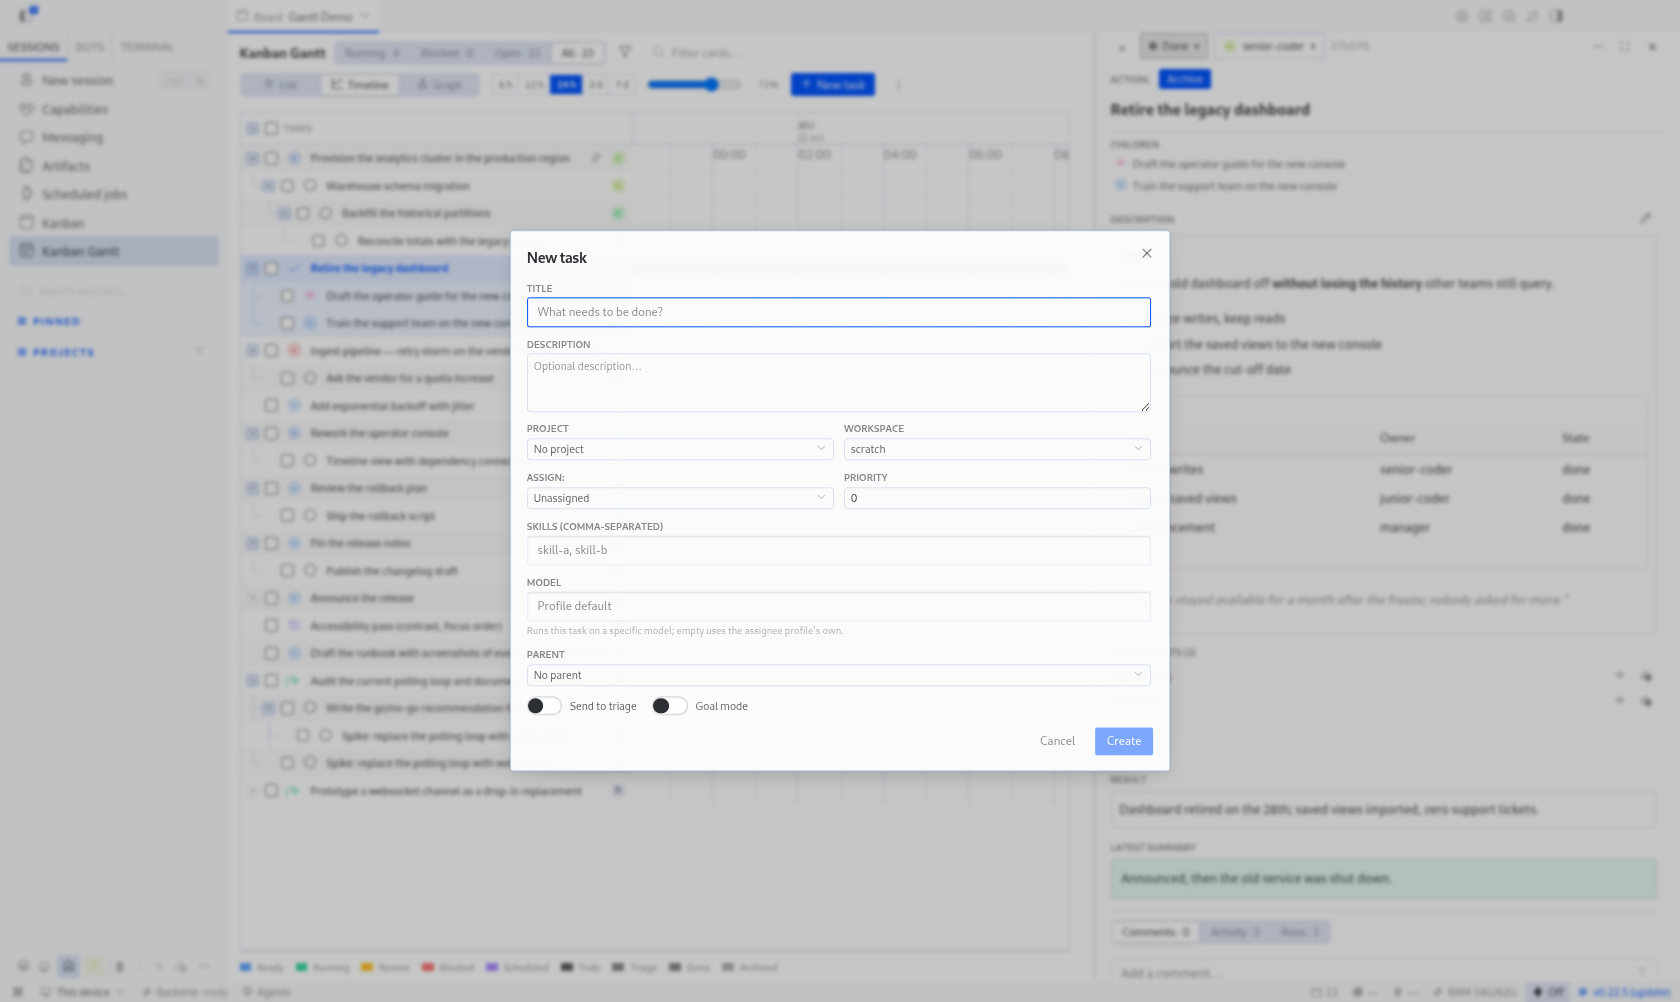
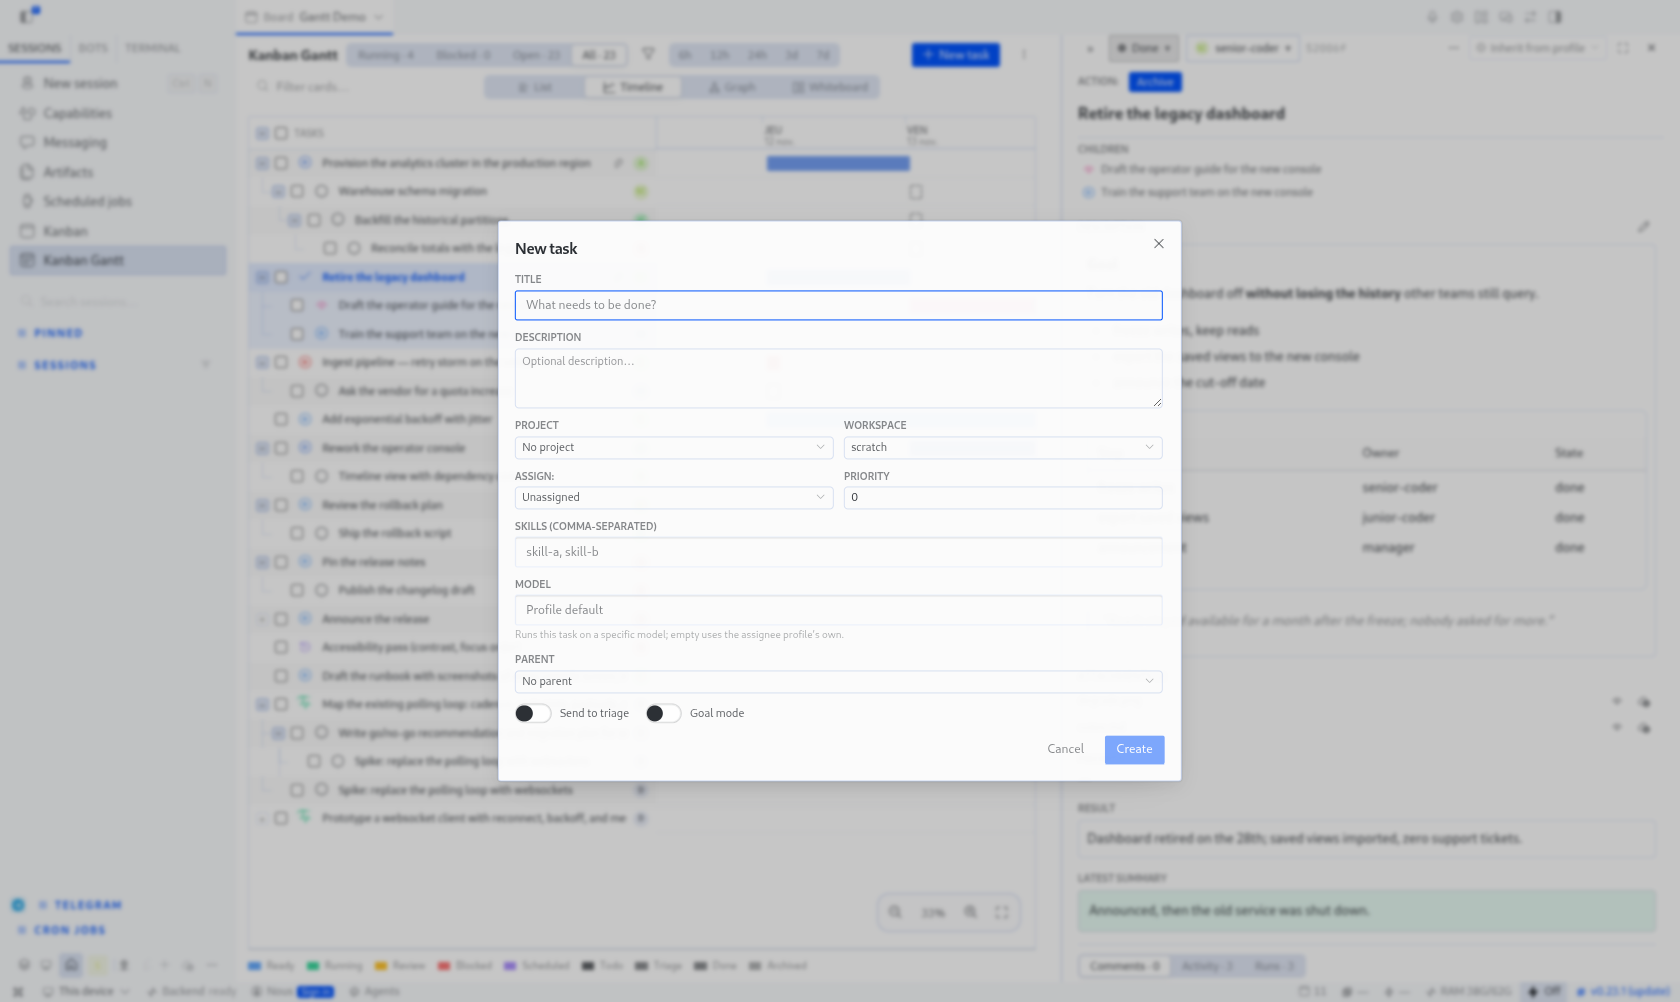
chore(release): 1.13.2 — the catalogue's frames are light, and the whiteboard gets one

diff --git a/scripts/shots.py b/scripts/shots.py
@@ -60,7 +60,7 @@ DEMO_BOARD = "gantt-demo"
 DEMO_TASK = "Provision the analytics cluster"
 # Desktop plugins that must NOT appear in a capture: the sidebar's plugin list is the shell's,
 # not the plugin's, so a catalogue image of kanban-gantt should not advertise its neighbours.
-OTHER_PLUGINS = ("model-leaderboard", "kanban-graph")
+OTHER_PLUGINS = ("model-leaderboard", "kanban-graph", "operations", "whiteboard")
 DECISIONS_KEY = "hermes.desktop.pluginDecisions.v2"
 
 # A detail-rich task to open. (The drag pair that used to live here went with the
@@ -391,16 +391,108 @@ async def ensure_current_board(ui: Desktop):
     # behind: the column width, the view mode, and the SHELL's own light/dark mode
     # (this machine follows the system, and a switch to dark turned every capture
     # dark). Both shell values are put back at the end of the run.
-    RESTORE["mode"] = await ui.ev("(() => localStorage.getItem('hermes-desktop-mode-v1'))")
     RESTORE["sidebar"] = await resize_sidebar(ui)
     await ui.ev("""(() => {
       localStorage.setItem('hermes.plugin.kanban-gantt.labelW', '400');
       localStorage.setItem('hermes.plugin.kanban-gantt.viewMode', '"timeline"');
-      localStorage.setItem('hermes-desktop-mode-v1', 'light');
       return true;
     })()""")
     await ui.call("Page.reload", {"ignoreCache": False})
     await asyncio.sleep(9)
+    await ensure_light(ui)
+
+
+MODE_KEY = "hermes-desktop-mode-v1"
+PROFILE_MODES_KEY = "hermes-desktop-profile-modes-v1"
+# What the shell actually boots from. `localStorage` is a mirror the main process re-seeds, which is
+# how a run once wrote "light" into the renderer and still captured a dark app: the per-PROFILE map
+# said "system", the OS was dark, and the mirror lost the argument at the next reload.
+UI_PREFS = Path.home() / ".hermes" / "ui-preferences.json"
+
+
+async def appearance_is_light(ui: Desktop) -> bool:
+    """Is the shell PAINTING light? The class and the pixels are the truth; the stored key is not."""
+    return bool(await ui.ev("""(() => {
+      const cls = document.documentElement.className || '';
+      if (/(^|\\s)dark(\\s|$)/.test(cls)) return false;
+      const m = (getComputedStyle(document.body).backgroundColor || '').match(/rgba?\\((\\d+),\\s*(\\d+),\\s*(\\d+)/);
+      if (!m) return true;
+      return (Number(m[1]) + Number(m[2]) + Number(m[3])) / 3 > 140;
+    })()"""))
+
+
+def force_light_in_prefs() -> bool:
+    """Last resort: write the store the shell boots from, then let the reload apply it."""
+    try:
+        prefs = json.loads(UI_PREFS.read_text())
+    except Exception as exc:
+        print(f"  ! ui-preferences.json unreadable: {exc}")
+        return False
+    RESTORE.setdefault("prefs", UI_PREFS.read_text())
+    values = prefs.setdefault("values", {})
+    values[MODE_KEY] = "light"
+    try:
+        modes = json.loads(values.get(PROFILE_MODES_KEY) or "{}")
+    except Exception:
+        modes = {}
+    values[PROFILE_MODES_KEY] = json.dumps({name: "light" for name in (modes or {"default": "light"})})
+    prefs["revision"] = int(prefs.get("revision") or 0) + 1
+    UI_PREFS.write_text(json.dumps(prefs, indent=2))
+    return True
+
+
+async def ensure_light(ui: Desktop):
+    """A catalogue capture must be LIGHT — a dark thumbnail reads as a different product.
+
+    Three rungs, each verified on the PAINTED page rather than on the key that was written, because
+    the key can say "light" while the shell follows the OS: the renderer's own keys, then the boot
+    store, then an honest stop. What it found is remembered in RESTORE and put back at the end.
+    """
+    RESTORE["mode"] = await ui.ev(f"localStorage.getItem({MODE_KEY!r})")
+    RESTORE["profileModes"] = await ui.ev(f"localStorage.getItem({PROFILE_MODES_KEY!r})")
+    if await appearance_is_light(ui):
+        print("  appearance: light ✓")
+        return
+    await ui.ev(f"""(() => {{
+      localStorage.setItem({MODE_KEY!r}, 'light');
+      let modes = {{}};
+      try {{ modes = JSON.parse(localStorage.getItem({PROFILE_MODES_KEY!r}) || '{{}}'); }} catch (e) {{}}
+      if (!Object.keys(modes).length) modes = {{ default: 'light' }};
+      Object.keys(modes).forEach(name => modes[name] = 'light');
+      localStorage.setItem({PROFILE_MODES_KEY!r}, JSON.stringify(modes));
+      return true;
+    }})()""")
+    await ui.call("Page.reload", {"ignoreCache": False})
+    await asyncio.sleep(9)
+    if await appearance_is_light(ui):
+        print("  appearance: light (renderer keys) ✓")
+        return
+    if force_light_in_prefs():
+        await ui.call("Page.reload", {"ignoreCache": False})
+        await asyncio.sleep(9)
+    if not await appearance_is_light(ui):
+        raise Dead("the shell stayed dark — switch the desktop to Light and re-run; the catalogue "
+                   "cannot ship dark frames")
+    print("  appearance: light (ui-preferences.json) ✓")
+
+
+async def restore_appearance(ui: Desktop):
+    """Put the shell back the way the run found it — a capture has no business changing it."""
+    if RESTORE.get("prefs"):
+        try:
+            UI_PREFS.write_text(RESTORE.pop("prefs"))
+        except Exception as exc:
+            print(f"  ! could not restore ui-preferences.json: {exc}")
+    mode, modes = RESTORE.pop("mode", None), RESTORE.pop("profileModes", None)
+    if mode is None and modes is None:
+        return
+    await ui.ev(f"""(() => {{
+      const mode = {json.dumps(mode)}, modes = {json.dumps(modes)};
+      if (mode === null) localStorage.removeItem({MODE_KEY!r}); else localStorage.setItem({MODE_KEY!r}, mode);
+      if (modes === null) localStorage.removeItem({PROFILE_MODES_KEY!r}); else localStorage.setItem({PROFILE_MODES_KEY!r}, modes);
+      return true;
+    }})()""")
+    print("  appearance restored")
 
 
 async def collapse_private_sections(ui: Desktop):
@@ -639,6 +731,22 @@ async def click_exact(ui: Desktop, text: str, *, selector: str = "button") -> bo
     return True
 
 
+async def click_view_chip(ui: Desktop, label: str) -> bool:
+    """Click a view chip inside the plugin's own header — never a same-named sidebar entry.
+
+    "Whiteboard" is both a view of this plugin and the name of the official whiteboard app in the
+    sidebar; a text search matched the app and the capture showed the wrong product.
+    """
+    return bool(await ui.ev(f"""(() => {{
+      for (const group of document.querySelectorAll('[role=group]')) {{
+        const chip = [...group.querySelectorAll('button')]
+          .find(b => (b.innerText || '').trim() === {json.dumps(label)});
+        if (chip) {{ chip.click(); return true; }}
+      }}
+      return false;
+    }})()"""))
+
+
 async def click_attr(ui: Desktop, label: str) -> bool:
     """Click the first on-screen element whose aria-label is exactly `label`, by coordinates."""
     box = await ui.ev(f"""(() => {{
@@ -796,6 +904,24 @@ async def run_scenario(ui: Desktop, *, make_gif: bool):
 
     # ── the graph view: the dependency structure of the same board ───────────
     await capture_graph(ui)
+
+    # ── the whiteboard: the fourth view, and the one a thumbnail loses ────────
+    # Fit alone puts the whole plan on screen at a scale where, in a catalogue card, it reads as a
+    # pale map: the capture fits first (so nothing is cut), then steps the zoom in twice around the
+    # centre. The reader then sees lanes, frames and a milestone arrow instead of grey confetti.
+    # The chip is clicked by its GROUP, not by its text: "Whiteboard" is also the name of a sidebar
+    # entry (the official whiteboard app), and a text search opens that app instead — measured.
+    if await click_view_chip(ui, "Whiteboard"):
+        await asyncio.sleep(2.2)
+        if await click_attr(ui, "Fit"):
+            await asyncio.sleep(1.2)
+        for _ in range(2):
+            if await click_attr(ui, "Zoom in"):
+                await asyncio.sleep(0.7)
+        await asyncio.sleep(0.8)
+        await ui.shot("screenshot-en-09-whiteboard")
+    else:
+        print("  ! whiteboard toggle not found — skipping the whiteboard shot")
 
     # The animation, LAST: Page.captureScreenshot returns no frame while a
     # screencast runs, so every still above has to be taken first.
@@ -1031,11 +1157,8 @@ async def main():
             await restore_plugin_decisions(ui)
             if RESTORE.get("sidebar"):
                 await resize_sidebar(ui, int(RESTORE["sidebar"]))
-            if RESTORE.get("mode") is not None:
-                await ui.ev(f"""(() => {{
-                  localStorage.setItem('hermes-desktop-mode-v1', {json.dumps(str(RESTORE['mode']))});
-                  return true;
-                }})()""")
+            if RESTORE.get("mode") is not None or RESTORE.get("prefs"):
+                await restore_appearance(ui)
                 await ui.call("Page.reload", {"ignoreCache": False})
                 await asyncio.sleep(7)
                 RESTORE.pop("needsReload", None)

diff --git a/CHANGELOG.md b/CHANGELOG.md
@@ -1,5 +1,23 @@
 # Changelog
 
+## 1.13.2 — the catalogue's frames are light again
+
+The screenshots shipped with the catalog entry were captured in a dark shell. `scripts/shots.py` wrote
+`hermes-desktop-mode-v1` into `localStorage` and trusted it, but the shell boots from the per-profile
+map in `~/.hermes/ui-preferences.json`, where the active profile said `"system"` — so the run recorded
+the OS's dark theme and every frame came out dark while the key said "light". The capture now verifies
+what the page PAINTS (class and body colour), falls back to the boot store, and stops instead of
+shipping a dark frame; it puts back what it found when it is done.
+
+Also for the catalog entry:
+
+- the official Whiteboard and Operations plugins are hidden during a capture, so the sidebar
+  advertises only kanban-gantt;
+- a whiteboard frame joins the set (`docs/screenshot-en-09-whiteboard.png`), fitted and then zoomed in
+  twice — at fit the plan reads as a pale map in a catalogue thumbnail;
+- the whiteboard chip is clicked by its group rather than by its text: "Whiteboard" is also the name of
+  a sidebar app, and a text search opened that app instead of the view.
+
 ## 1.13.1 — the band switcher reports itself
 
 `useBandSwitcherPresent` decided whether the desktop's page header band was painting our board
